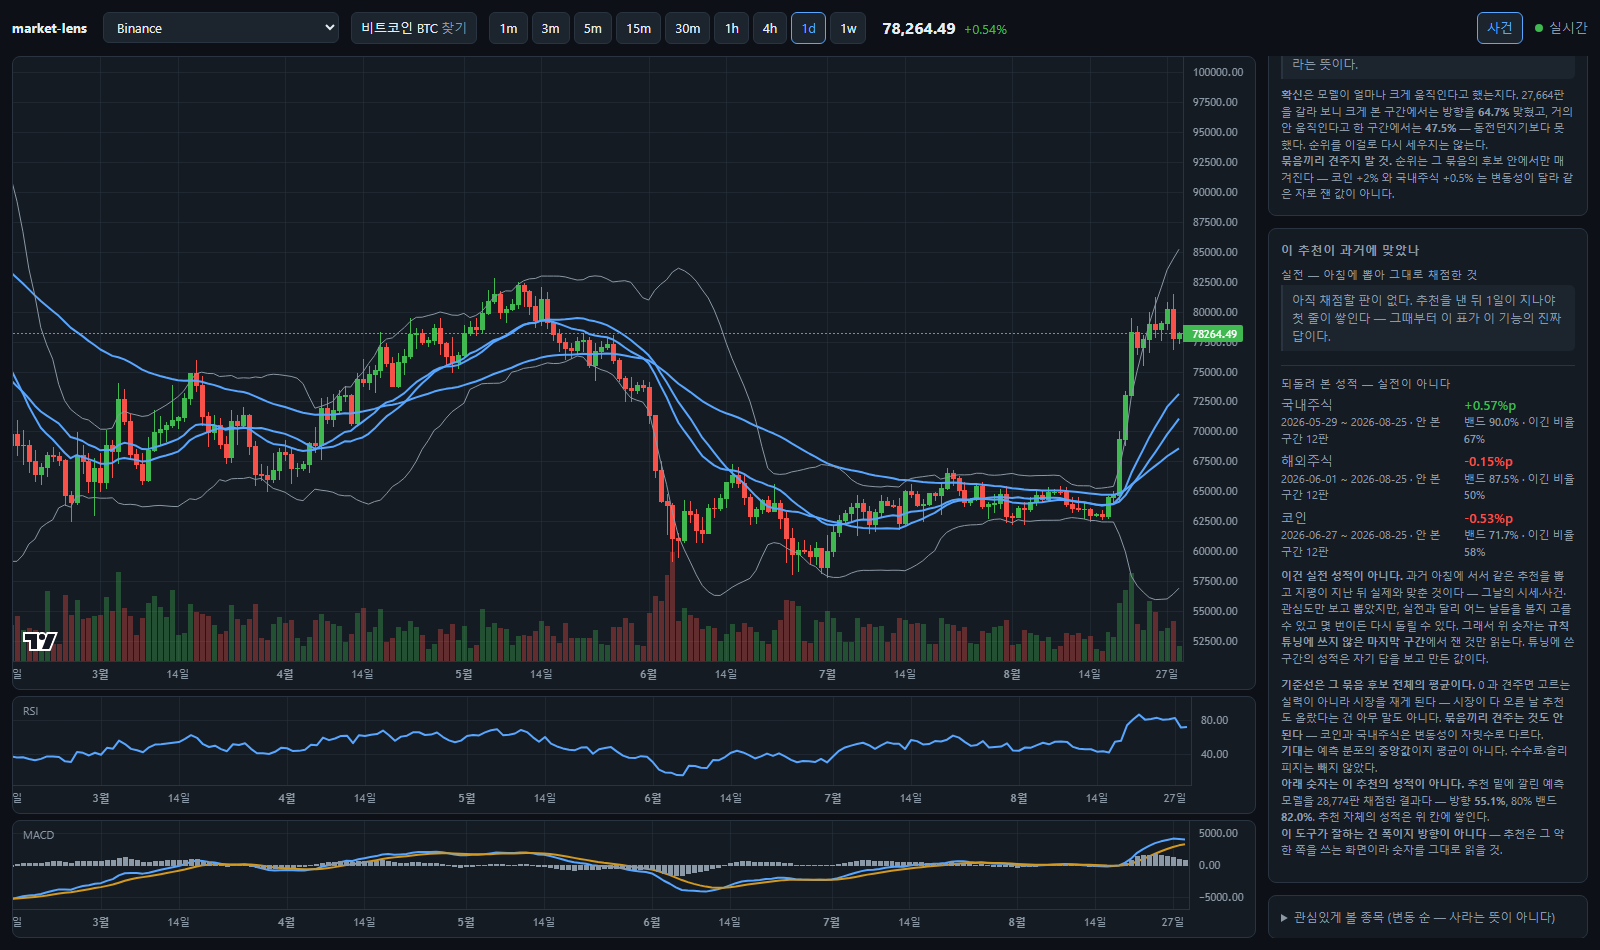
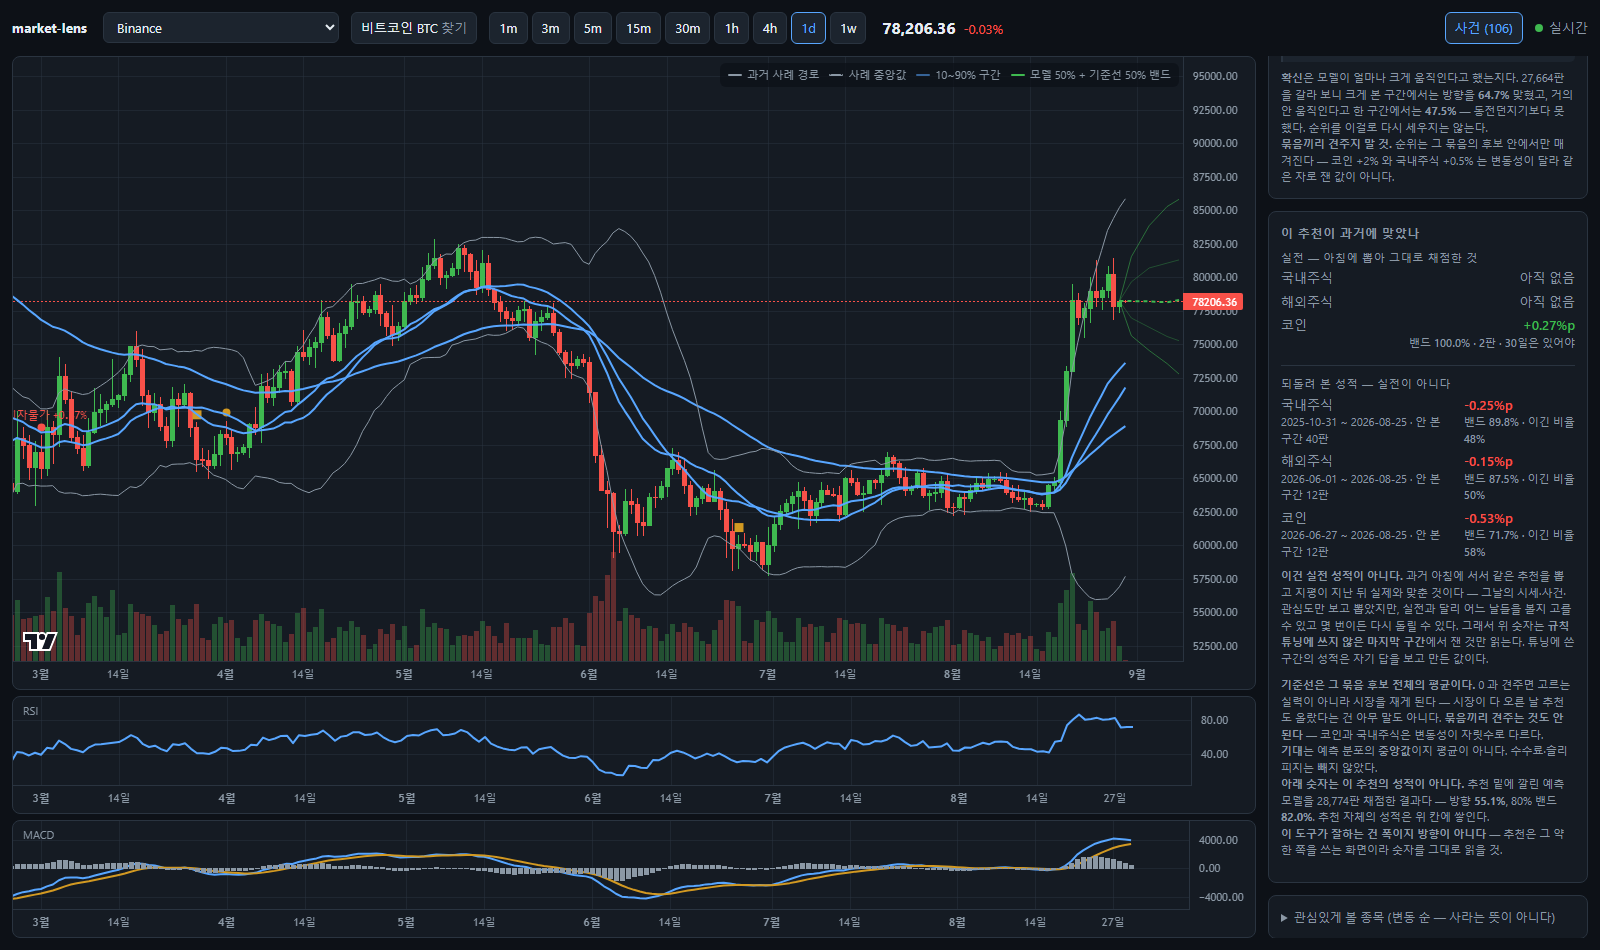
docs: 국내주식을 200 origin 으로 다시 재니 부호가 통째로 뒤집혔다
처음 60 origin 에서 국내주식만 holdout 세 칸이 양수였다(+0.57 / +0.88 / +1.27%p).
다섯 시장 열다섯 칸 중 유일하게 좋아 보이는 자리였다. 그래서 200 origin 으로 다시 쟀다.

    지평   60 origin(12판)   200 origin(40판)
    1일       +0.57%p           -0.25%p
    2일       +0.88%p           -0.57%p
    3일       +1.27%p           -0.90%p

같은 규칙, 같은 설정, 같은 종목이다. 바뀐 것은 어느 날들이 holdout 에 들어가느냐뿐인데
세 칸이 전부 부호를 바꿨다. 게다가 튜닝 구간도 같이 뒤집혔다 — 두 구간이 매번 서로
반대 부호다. 실력이 있으면 둘이 같은 쪽을 가리켜야 한다. 반대로 가는 건 표본을 어디서
자르느냐가 답을 정하고 있다는 뜻이고, 그게 "아무 말도 못 한다"의 정의다.

한 번 재고 부호를 믿었으면 그 위에 규칙을 쌓았을 것이고, 반년 뒤에 왜 안 맞는지 몰랐을
것이다. holdout 열다섯 칸이 이제 전부 음수다.

## 잡음과 가르는 검정을 붙였다

`backfill.py --test`. 차이 계열을 덩어리째 다시 뽑아 p 와 95% 구간을 낸다. 한 판씩
섞으면 적중이 시간에 뭉쳐 다니는 성질이 사라져 귀무 세계가 실제보다 깨끗해지고 문턱이
낮게 잡힌다 — 이 저장소가 metalabel.py 에서 이미 그걸로 답이 뒤집힌 적이 있다.
덩어리 길이는 overfit.pick_block(Politis & White)이 정한다. 손으로 고르면 p 가 그
임의의 숫자 위에 서게 된다.

**몇 칸을 봤는지도 같이 낸다.** 칸 30개면 귀무에서도 제일 작은 p 가 대략 0.032 근처에
온다. 실제 최소는 0.044(국내주식 2일 전체)라 우연이 으레 내놓는 정도고, 30칸 중 95%
구간이 0 을 벗어난 것은 하나도 없다. 이게 없으면 0.05 아래인 칸 하나를 발견으로 읽게
된다.

흔들림이 없는 계열에서 최적 블록 계산이 0 으로 나누는 것도 막았다. 거기에 임의의
숫자를 넣으면 안 되므로 1 로 둔다 — 그런 계열은 어떻게 다시 뽑아도 평균이 같다.

곁들여: 성적 칸의 두 글자 라벨이 세로로 쪼개졌다("코/인"). `.tabs` 에서 이미 겪은
함정이라 이름 칸을 못 줄이게 못 박았다.

diff --git a/web/src/components/ScreenPanel.tsx b/web/src/components/ScreenPanel.tsx
@@ -390,13 +390,17 @@ function RecordCard({ groups, days }: { groups: RecommendGroup[]; days: number }
             const r = g.record;
             return (
               <div className="row" key={g.key}>
-                <span>{g.label}</span>
+                {/* 이름 칸이 줄어들면 두 글자 라벨이 세로로 쪼개진다("코/인").
+                    `.tabs` 에서 이미 한 번 겪은 함정이라 여기서도 못 줄이게 못 박는다. */}
+                <span style={{ whiteSpace: "nowrap", flex: "none" }}>{g.label}</span>
                 {r && r.n > 0 ? (
-                  <b style={{ color: (r.edgePct ?? 0) > 0 ? "var(--up)" : "var(--down)" }}>
+                  <b style={{ textAlign: "right",
+                              color: (r.edgePct ?? 0) > 0 ? "var(--up)" : "var(--down)" }}>
                     {signed(r.edgePct)}%p
-                    <span style={{ color: "var(--text-dim)" }}>
-                      {" "}· 밴드 {pct(r.bandHit, 1)} · {r.n}판
-                      {!r.enough && " (30일은 있어야 성적이다)"}
+                    <span style={{ display: "block", color: "var(--text-dim)",
+                                   fontSize: 11 }}>
+                      밴드 {pct(r.bandHit, 1)} · {r.n}판
+                      {!r.enough && " · 30일은 있어야"}
                     </span>
                   </b>
                 ) : (
@@ -425,8 +429,8 @@ function RecordCard({ groups, days }: { groups: RecommendGroup[]; days: number }
               const read = held ?? b;
               return (
                 <div className="row" key={g.key}>
-                  <span>
-                    {g.label}
+                  <span style={{ minWidth: 0 }}>
+                    <span style={{ whiteSpace: "nowrap" }}>{g.label}</span>
                     <span style={{ display: "block", color: "var(--text-dim)", fontSize: 11 }}>
                       {b.from} ~ {b.to}
                       {held ? ` · 안 본 구간 ${held.n}판` : ` · ${b.n}판`}

diff --git a/docs/RECOMMEND.md b/docs/RECOMMEND.md
@@ -1,17 +1,18 @@
 # 아침 추천을 되돌려 채점한 결과
 
 `scripts/backfill.py` 로 과거 아침에 서서 같은 추천을 뽑고, 지평이 지난 뒤 실제와
-맞췄다. 2026-08-30 측정, 시장마다 origin 60개, 8 origin 마다 재학습.
+맞췄다. 2026-08-30 측정, 8 origin 마다 재학습. 시장마다 origin 60개씩이고
+**국내주식만 200개다** — 처음 60개에서 혼자 양수가 나와 더 길게 다시 쟀다.
 설정은 `window 48 · folds 3 · bars 3000 · 사라 3 · 사지 말 것 3` 한 벌이다.
 
 | 시장 | 구간 | holdout |
 |---|---|---|
 | binance · upbit | 2026-06-27 ~ 08-25 | 08-14 ~ 08-25 |
-| toss_kr | 2026-05-29 ~ 08-25 | 08-07 ~ 08-25 |
+| toss_kr (origin 200개) | 2025-10-31 ~ 08-25 | 06-29 ~ 08-25 |
 | toss_us | 2026-06-01 ~ 08-25 | 08-10 ~ 08-25 |
 | yahoo | 2026-05-29 ~ 08-24 | 08-07 ~ 08-24 |
 
-**뒤 20%(12판)가 holdout 이다.** 추천 규칙을 만질 때 그 구간은 안 본다. 성적은
+**뒤 20%가 holdout 이다**(60 origin 이면 12판, 200 origin 이면 40판). 추천 규칙을 만질 때 그 구간은 안 본다. 성적은
 holdout 쪽을 읽는다 — 튜닝에 쓴 구간에서 잰 값은 자기 답을 보고 만든 성적이다.
 
 `차이` = 추천 셋의 평균 − **후보 전체 평균**. 0 과 견주면 고르는 실력이 아니라
@@ -33,12 +34,12 @@ holdout 쪽을 읽는다 — 튜닝에 쓴 구간에서 잰 값은 자기 답을
 | 코인 (upbit) | 2일 | **holdout** | 12 | +3.41% | +3.58% | **−0.17%p** | 67% | 66.7% |
 | 코인 (upbit) | 3일 | 튜닝 | 48 | +0.05% | −0.02% | +0.08%p | 60% | 86.9% |
 | 코인 (upbit) | 3일 | **holdout** | 12 | +5.08% | +5.26% | **−0.18%p** | 58% | 59.2% |
-| 국내주식 (toss_kr) | 1일 | 튜닝 | 48 | −0.37% | −0.32% | −0.05%p | 48% | 84.2% |
-| 국내주식 (toss_kr) | 1일 | **holdout** | 12 | +0.74% | +0.17% | **+0.57%p** | 67% | 90.0% |
-| 국내주식 (toss_kr) | 2일 | 튜닝 | 48 | −0.97% | −0.75% | −0.22%p | 48% | 84.0% |
-| 국내주식 (toss_kr) | 2일 | **holdout** | 12 | +1.23% | +0.34% | **+0.88%p** | 75% | 93.3% |
-| 국내주식 (toss_kr) | 3일 | 튜닝 | 48 | −1.55% | −1.13% | −0.43%p | 46% | 85.8% |
-| 국내주식 (toss_kr) | 3일 | **holdout** | 12 | +1.58% | +0.31% | **+1.27%p** | 75% | 97.5% |
+| 국내주식 (toss_kr) | 1일 | 튜닝 | 160 | +0.55% | +0.22% | +0.34%p | 52% | 79.8% |
+| 국내주식 (toss_kr) | 1일 | **holdout** | 40 | −0.36% | −0.12% | **−0.25%p** | 48% | 89.8% |
+| 국내주식 (toss_kr) | 2일 | 튜닝 | 160 | +1.00% | +0.39% | +0.61%p | 64% | 80.5% |
+| 국내주식 (toss_kr) | 2일 | **holdout** | 40 | −0.77% | −0.19% | **−0.57%p** | 42% | 91.2% |
+| 국내주식 (toss_kr) | 3일 | 튜닝 | 160 | +1.49% | +0.58% | +0.91%p | 62% | 80.8% |
+| 국내주식 (toss_kr) | 3일 | **holdout** | 40 | −1.20% | −0.29% | **−0.90%p** | 42% | 92.0% |
 | 해외주식 (toss_us) | 1일 | 튜닝 | 48 | −0.15% | +0.04% | −0.19%p | 46% | 79.4% |
 | 해외주식 (toss_us) | 1일 | **holdout** | 12 | −0.41% | −0.26% | **−0.15%p** | 50% | 87.5% |
 | 해외주식 (toss_us) | 2일 | 튜닝 | 48 | −0.45% | +0.07% | −0.52%p | 44% | 78.1% |
@@ -56,7 +57,7 @@ holdout 쪽을 읽는다 — 튜닝에 쓴 구간에서 잰 값은 자기 답을
 
 ### 1. 고르는 실력이 안 보인다
 
-**holdout 열다섯 칸 중 열둘이 음수다.** 튜닝 구간도 −0.89 ~ +0.09%p 로 0 언저리다.
+**holdout 열다섯 칸이 전부 음수다.** 튜닝 구간도 −0.89 ~ +0.09%p 로 0 언저리다.
 "기대 수익률 상위 셋"이 후보 전체를 산 것보다 나았다는 증거가 없다.
 
 놀랄 일은 아니다. `docs/STUDY.md` 가 방향 적중을 27,664판에서 **55.0%** 로 재 뒀고,
@@ -67,20 +68,41 @@ holdout 쪽을 읽는다 — 튜닝에 쓴 구간에서 잰 값은 자기 답을
 **그래서 이 표가 말하는 것은 "추천이 나쁘다"보다 "이 표본으로는 아무 말도 못 한다"에
 가깝다.** 다만 **좋다는 증거가 없다**는 것도 사실이고, 화면은 그렇게 읽히게 써야 한다.
 
-### 2. 국내주식만 양수다 — 그런데 믿을 수 없다
+### 2. 국내주식은 origin 을 늘리자 부호가 통째로 뒤집혔다
 
-`toss_kr` 이 holdout 세 칸 모두 양수다(+0.57 / +0.88 / +1.27%p, 이긴 비율 67~75%).
-유일하게 좋아 보이는 자리라 가장 조심해야 한다:
+처음 60 origin 으로 쟀을 때 국내주식만 holdout 세 칸이 양수였다(+0.57 / +0.88 /
++1.27%p). 유일하게 좋아 보이는 자리였다. **그래서 200 origin 으로 다시 쟀다.**
 
-- **튜닝 구간에서는 세 칸 다 음수다**(−0.05 / −0.22 / −0.43%p). 같은 규칙이 48판에서
-  지고 12판에서 이겼다. 부호가 뒤집혔다는 건 표본이 갈랐다는 뜻이지 실력이 아니다.
-- 그 구간의 밴드 적중이 **90 / 93 / 97.5%** 다(목표 80%). 밴드가 넘치게 넓다는 건
-  **그 구간이 평소보다 조용했다**는 뜻이고, 조용한 구간에서 상위 셋이 앞선 것은
-  변동성 뭉침의 부산물일 수 있다.
-- 12판이다. +1.27%p 의 신뢰구간은 0 을 한참 넘나든다.
+| 지평 | 60 origin (holdout 12판) | 200 origin (holdout 40판) |
+|---|---|---|
+| 1일 | **+0.57%p** | **−0.25%p** |
+| 2일 | **+0.88%p** | **−0.57%p** |
+| 3일 | **+1.27%p** | **−0.90%p** |
 
-**"국내주식은 된다"로 읽지 말 것.** 다음 측정에서 뒤집히면 그건 새로운 소식이
-아니라 원래 그 정도 잡음이었다는 뜻이다.
+같은 규칙, 같은 설정, 같은 종목이다. 바뀐 것은 **어느 날들이 holdout 에 들어가느냐**
+뿐이다(60 origin 은 2026-08-07~08-25, 200 origin 은 2026-06-29~08-25). 그것만으로
+세 칸이 전부 부호를 바꿨다.
+
+그리고 튜닝 구간도 같이 뒤집혔다 — 60 origin 에서는 −0.05/−0.22/−0.43, 200 origin
+에서는 +0.34/+0.61/+0.91. **두 구간이 매번 서로 반대 부호다.** 실력이 있으면 두 구간이
+같은 쪽을 가리켜야 한다. 반대로 가는 건 표본을 어디서 자르느냐가 답을 정하고 있다는
+뜻이고, 그게 곧 "아무 말도 못 한다"의 정의다.
+
+**이게 이 문서에서 제일 값진 한 줄이다.** 처음 표만 보고 "국내주식은 된다"고 적었으면
+그 위에 규칙을 쌓았을 것이고, 반년 뒤에 왜 안 맞는지 몰랐을 것이다.
+
+### 2-1. 검정이 같은 말을 한다
+
+`scripts/backfill.py --test` 가 차이 계열을 **덩어리째** 다시 뽑아 잰다. 덩어리 길이는
+`overfit.pick_block`(Politis & White 최적값)이 정한다 — 손으로 고르지 않는다.
+
+칸 30개 중 95% 구간이 0 을 벗어난 것은 **하나도 없다.** 제일 작은 p 는 국내주식
+2일 전체 구간의 **0.044** 인데, 칸을 서른 개 봤으니 귀무에서도 제일 작은 p 는 대략
+1/31 = **0.032** 근처에 온다. **우연이 으레 내놓는 정도다.**
+
+반대쪽으로 눈에 띄는 칸이 하나 있다 — 해외주식 3일 전체가 −0.75%p, 구간
+[−1.50, −0.02] 로 0 을 아슬하게 벗어난다. 이것도 서른 칸 중 하나라 같은 이유로
+발견이 아니지만, **적어도 "지평이 길수록 나빠진다"는 방향과는 일관된다.**
 
 ### 3. 미국주식은 두 소스가 같은 답을 냈다
 
@@ -94,7 +116,7 @@ holdout 쪽을 읽는다 — 튜닝에 쓴 구간에서 잰 값은 자기 답을
 
 목표는 80%다. 코인은 튜닝 구간에서 84~87% 로 오히려 넉넉했는데, **holdout 에서
 52~72% 로 떨어졌다.** 지평이 길수록 심하다(1일 70~72% → 3일 52~59%).
-주식은 반대다 — 미국은 78~79% → 87~92%, 국내는 84~86% → 90~98%.
+주식은 반대다 — 미국은 78~79% → 87~92%, 국내는 80% → 90~92%.
 
 즉 **코인에서만, 최근 구간에서만** 무너졌다. 그 구간(2026-08-14 ~ 08-25)은 후보
 평균이 사흘에 +5.88% 였던 급등 구간이다. 컨포멀 보정은 검증 구간의 벗어난 정도를
@@ -104,7 +126,7 @@ holdout 쪽을 읽는다 — 튜닝에 쓴 구간에서 잰 값은 자기 답을
 
 - 12판이다. 52.5% 는 95% 신뢰구간으로 대략 27~77% 다. 한 구간의 변동성 급등일 수 있다.
 - **밴드를 좁히지 말 것.** CLAUDE.md 의 규칙 그대로 — 목표에 못 미치면 넓히되
-  좁히지는 않는다. 지금 국내주식이 97.5% 라 좁힐 유혹이 생기는데, 그건 사례가 적을 때
+  좁히지는 않는다. 지금 주식 쪽이 90% 를 넘어 좁힐 유혹이 생기는데, 그건 사례가 적을 때
   우연히 높게 나온 커버리지로 밴드를 조이는 짓이다.
 - 다시 재려면 origin 을 더 잡아 급등 구간이 holdout 안에서 여러 번 갈리게 해야 한다.
 
@@ -117,15 +139,23 @@ holdout 쪽을 읽는다 — 튜닝에 쓴 구간에서 잰 값은 자기 답을
   as-of 를 승격 기준에 넣으면 그것도 학습 구간이 된다.
 - **`avoidPct` 를 성적으로 읽는 것.** 사지 말 것은 "그 묶음 안에서 꼴찌"라는 뜻이지
   공매도 신호가 아니다.
-- **묶음끼리 견주는 것.** 코인 holdout 의 +5.08% 와 국내주식의 +1.58% 는 그 구간
-  시장이 그만큼 다르게 움직였다는 말이지 추천의 우열이 아니다.
+- **묶음끼리 견주는 것.** 코인 holdout 의 후보 평균이 +5.26% 이고 국내주식은 −0.29%
+  인 것은 그 구간 시장이 그만큼 다르게 움직였다는 말이지 추천의 우열이 아니다.
+- **한 번 재고 부호를 믿는 것.** 국내주식이 그렇게 뒤집혔다. **origin 을 늘려 보고,
+  튜닝 구간과 holdout 이 같은 쪽을 가리키는지 확인하고, `--test` 를 돌린다.**
 
 ## 다시 재는 법
 
 ```bash
 .venv/Scripts/python scripts/backfill.py --provider binance --origins 60
+.venv/Scripts/python scripts/backfill.py --provider toss_kr --origins 200 --restale
 .venv/Scripts/python scripts/backfill.py --summary
+.venv/Scripts/python scripts/backfill.py --test      # 잡음과 가르기
 ```
+
+**부호가 마음에 들면 origin 을 늘려 다시 재라.** 그것 하나로 국내주식 세 칸이 전부
+부호를 바꿨다. `--origins` 를 바꾸면 holdout 경계가 같이 움직이므로 `--restale` 로
+그 시장을 통째로 다시 돌려야 한다 — 안 그러면 옛 줄이 옛 `holdout` 표시를 달고 남는다.
 
 설정(`window`·`folds`·`bars`·`사라/사지 말 것` 수)을 바꿨으면 `--restale` 로 옛 설정
 줄을 버리고 다시 돌린다. `--summary` 가 설정이 섞이면 경고한다. 화면

diff --git a/CLAUDE.md b/CLAUDE.md
@@ -422,10 +422,12 @@
   횡단면 방향 스프레드는 하루 +0.03%p·사흘 +0.65%p 라 12판으로 잡힐 크기가 아니고,
   같은 구간 시장 움직임이 자릿수로 크다. **"나쁘다"가 아니라 "이 표본으로는 아무 말도
   못 한다"** 에 가깝지만, **좋다는 증거도 없다.**
-- **국내주식만 양수다(+0.57~+1.27%p). 그게 가장 조심할 자리다** — 같은 규칙이
-  튜닝 48판에서는 세 칸 다 음수였다. 부호가 뒤집혔다는 건 표본이 갈랐다는 뜻이지
-  실력이 아니다. 그 구간 밴드가 90~98%(목표 80%)인 것도 **그냥 조용한 구간**이었다는
-  신호다. **"국내주식은 된다"로 읽지 말 것.**
+- **국내주식이 처음엔 혼자 양수였는데(+0.57~+1.27%p), origin 을 60→200 으로 늘리자
+  세 칸이 전부 음수로 뒤집혔다**(−0.25/−0.57/−0.90%p). 같은 규칙·같은 종목이고
+  바뀐 건 어느 날들이 holdout 에 들어가느냐뿐이다. 게다가 튜닝 구간과 holdout 이
+  **매번 서로 반대 부호**다 — 실력이 있으면 같은 쪽을 가리켜야 한다.
+  **한 번 재고 부호를 믿지 말 것.** origin 을 늘려 보고, 두 구간이 같은 쪽인지 보고,
+  `--test` 를 돌린다.
 - **미국주식은 토스와 야후가 거의 같은 답을 냈다**(−0.15/−0.31/−0.43 대
   −0.20/−0.36/−0.51). 같은 종목을 다른 데서 받아 온 것이라, 측정이 데이터 출처의
   우연이 아니라는 확인이다.
@@ -433,6 +435,11 @@
   길수록 심함). 주식은 반대로 올랐다. 컨포멀 보정한 구간보다 뒤가 시끄러우면 밴드가
   좁게 남는다 — **여기가 진짜 고칠 자리다.** 다만 12판이라 52.5% 의 95% 구간이
   27~77% 다. **국내주식이 97.5% 라고 좁히지 말 것.**
+- **잡음과 가르는 검정이 붙어 있다**(`--test`). 차이 계열을 **덩어리째** 다시 뽑아
+  p 와 95% 구간을 낸다. 덩어리 길이는 `overfit.pick_block`(Politis & White)이 정한다 —
+  손으로 고르면 p 가 그 임의의 숫자 위에 서게 된다. **칸을 몇 개 봤는지도 같이 낸다:**
+  칸 30개면 귀무에서도 제일 작은 p 가 대략 0.032 근처에 온다. 실제 최소가 0.044 라
+  **발견이 아니다.** 30칸 중 95% 구간이 0 을 벗어난 것은 하나도 없다.
 - **이 표를 보고 규칙을 고치고 다시 재서 좋아진 숫자를 쓰면 안 된다.** 그러면
   holdout 이 튜닝 구간이 된다. 규칙을 만졌으면 origin 을 뒤로 밀어 새 holdout 을 만든다.
 
